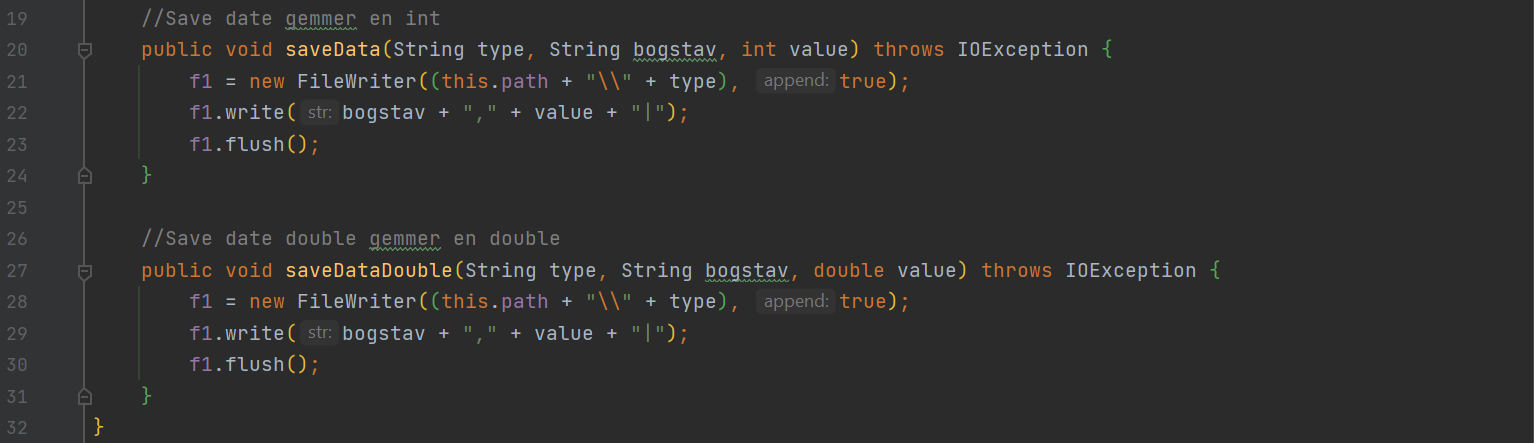
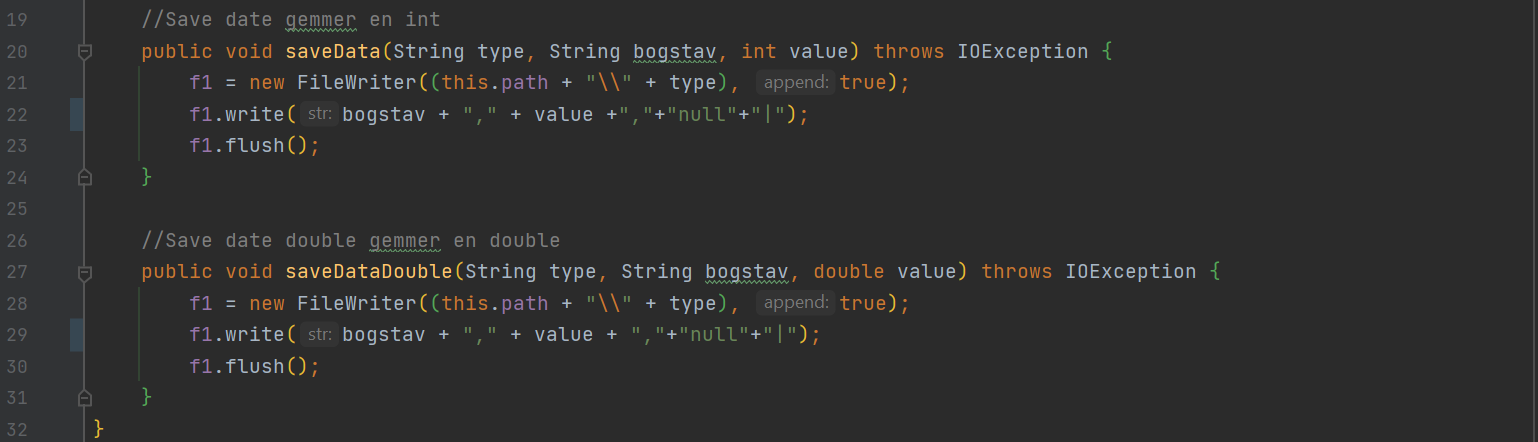
123

diff --git a/src/sample/EKGcontroller.java b/src/sample/EKGcontroller.java
@@ -1,28 +1,16 @@
 package sample;
 
 import javafx.application.Platform;
-import javafx.event.ActionEvent;
 import javafx.fxml.*;
-import javafx.scene.Scene;
 import javafx.scene.chart.LineChart;
 import javafx.scene.chart.XYChart;
-import javafx.scene.control.Button;
-import javafx.scene.control.Label;
 import javafx.scene.control.TextField;
-import javafx.scene.layout.StackPane;
-import javafx.stage.Modality;
-import javafx.stage.Stage;
-
 import java.io.IOException;
 import java.net.URL;
 import java.util.ResourceBundle;
-import java.util.concurrent.Executors;
-import java.util.concurrent.ScheduledExecutorService;
 import java.util.concurrent.TimeUnit;
 
-
 public class EKGcontroller extends Beregner implements Initializable {
-    ControllerProgramChooser cpc=new ControllerProgramChooser();
     static String navn;
     double tjek;
     int y = 0;
@@ -62,12 +50,10 @@ public class EKGcontroller extends Beregner implements Initializable {
             } else {
                 error("Invalid input, Cpr skal være 10 cifre");
             }
-
         } catch (Exception e) {
             error("Invalid input, CPR skal være tal");
         }
     }
-
 
     public void EKGstop() {
         Eventhandler.shutdown();
@@ -77,6 +63,4 @@ public class EKGcontroller extends Beregner implements Initializable {
     public void initialize(URL url, ResourceBundle resourceBundle) {
         CPRLabel.setText(name);
     } //Sætter CPR navn
-
-
 }

diff --git a/src/sample/ControllerArkiv.java b/src/sample/ControllerArkiv.java
@@ -1,6 +1,5 @@
 package sample;
 
-import javafx.event.ActionEvent;
 import javafx.fxml.*;
 import javafx.scene.chart.LineChart;
 import javafx.scene.chart.NumberAxis;
@@ -11,8 +10,6 @@ import java.util.*;
 import java.io.*;
 
 public class ControllerArkiv extends Beregner {
-    ControllerProgramChooser cpc = new ControllerProgramChooser();
-
     @FXML
     public TextField timeMin;
     @FXML
@@ -71,7 +68,8 @@ public class ControllerArkiv extends Beregner {
 
 
     //metode til at finde data og indlæse det i grafer.
-    public void populateChart(String filetype, String[] array, XYChart.Series xyChart, LineChart lineChart, int[] time, double[] value) throws FileNotFoundException {
+    public void populateChart(String filetype, String[] array, XYChart.Series xyChart, LineChart lineChart,
+                              int[] time, double[] value) throws FileNotFoundException {
 
         if (cprCheck2()) {
 
@@ -98,7 +96,6 @@ public class ControllerArkiv extends Beregner {
             if (array.length > 1) {
                 for (int i = 1; i < array.length; i = i + 2) {
                     value[i / 2] = Double.parseDouble(array[i]); // hvad sker der når man deler 3 med 2 som integer.
-
                 }
             }
             if (timeMax.getText() != "null" || timeMin.getText() != "null") {
@@ -134,5 +131,4 @@ public class ControllerArkiv extends Beregner {
             return false;
         }
     }
-
 }

diff --git a/src/sample/ControllerPatientArkiv.java b/src/sample/ControllerPatientArkiv.java
@@ -1,23 +1,17 @@
 package sample;
 
-import javafx.event.ActionEvent;
 import javafx.fxml.FXML;
 import javafx.fxml.Initializable;
 import javafx.scene.chart.LineChart;
 import javafx.scene.chart.NumberAxis;
-import javafx.scene.chart.XYChart;
 import javafx.scene.control.Label;
 import javafx.scene.control.TextField;
-
-import java.io.File;
 import java.io.FileNotFoundException;
 import java.net.URL;
 import java.util.ResourceBundle;
-import java.util.Scanner;
 
 public class ControllerPatientArkiv extends ControllerArkiv implements Initializable {
     ControllerLogin CL = new ControllerLogin();
-    ControllerProgramChooser cpc=new ControllerProgramChooser();
 
     @FXML
     public TextField timeMin;

diff --git a/src/sample/FileHandler.java b/src/sample/FileHandler.java
@@ -19,14 +19,14 @@ public class FileHandler {
     //Save date gemmer en int
     public void saveData(String type, String bogstav, int value) throws IOException {
         f1 = new FileWriter((this.path + "\\" + type), true);
-        f1.write(bogstav + "," + value + "|");
+        f1.write(bogstav + "," + value +","+"null"+"|");
         f1.flush();
     }
 
     //Save date double gemmer en double
     public void saveDataDouble(String type, String bogstav, double value) throws IOException {
         f1 = new FileWriter((this.path + "\\" + type), true);
-        f1.write(bogstav + "," + value + "|");
+        f1.write(bogstav + "," + value + ","+"null"+"|");
         f1.flush();
     }
 }

diff --git a/src/sample/ControllerProgramChooser.java b/src/sample/ControllerProgramChooser.java
@@ -14,7 +14,7 @@ public class ControllerProgramChooser {
     }
 
     public void ekgClicked() throws IOException {
-        m.openStage("EKG.½FXML");
+        m.openStage("EKG.FXML");
     }
 
     public void alarmClicked() throws IOException {
